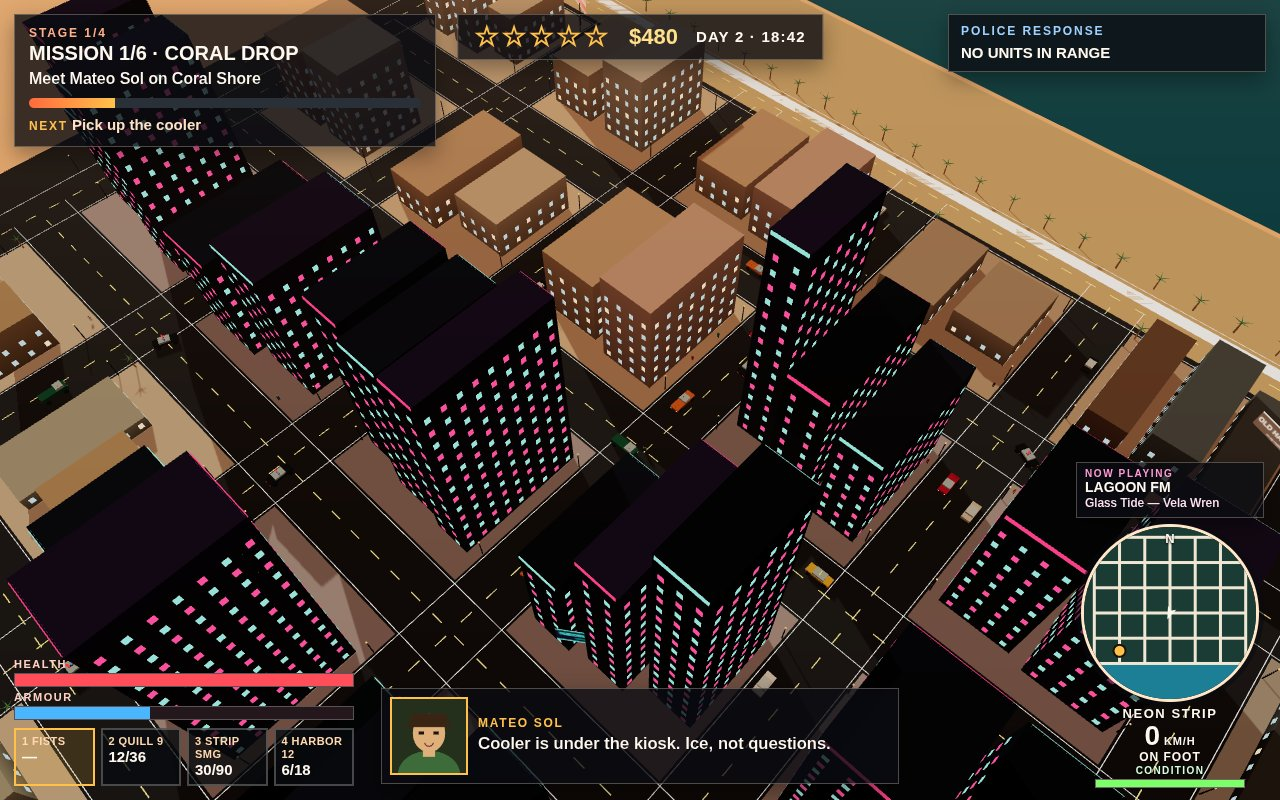
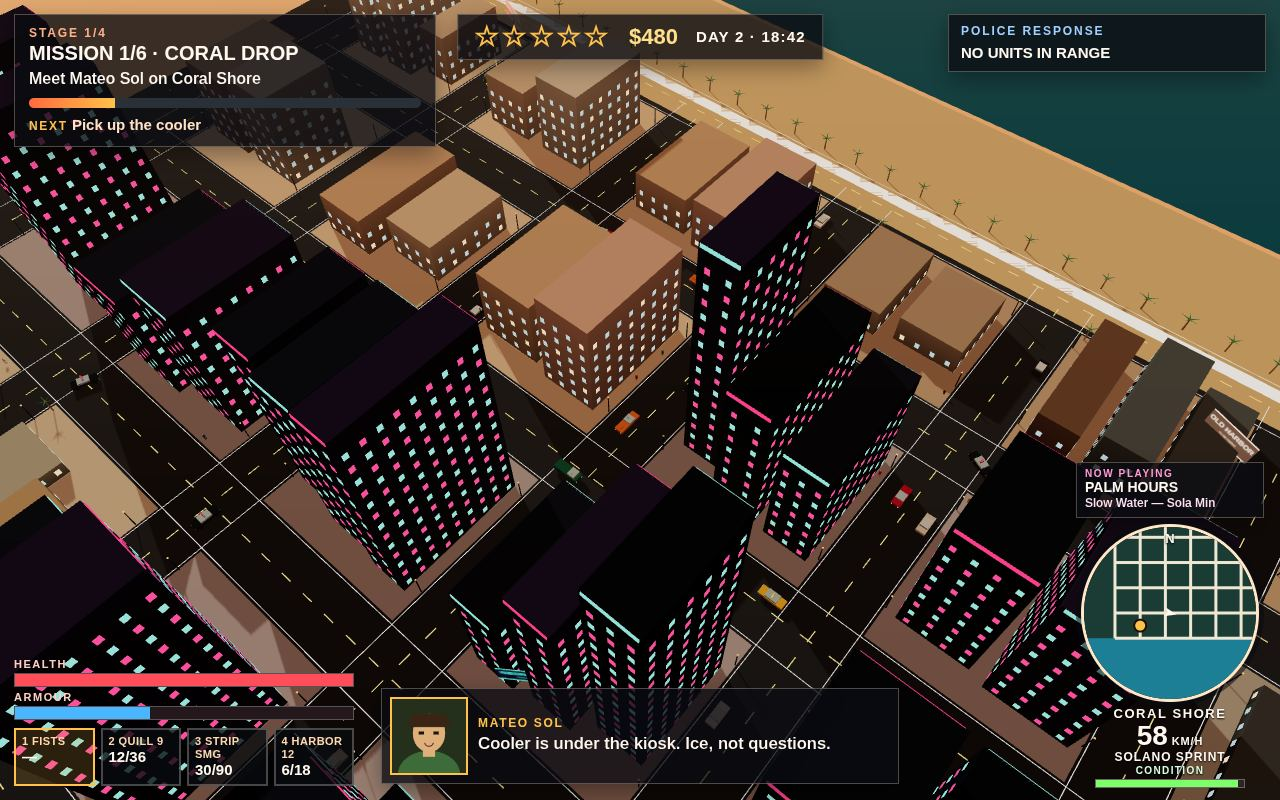
Stage chase, on-foot, city, and title screenshot scenes.

diff --git a/game/src/shots.js b/game/src/shots.js
@@ -1,0 +1,119 @@
+// Frozen screenshot scenes. One staged moment per ?shot= name. No unseeded motion.
+
+import { SHOTS } from './config.js';
+import { setWantedStars } from './wanted.js';
+import { stagePolice } from './police.js';
+import { stageMission } from './missions.js';
+import { say as sayLine } from './dialogue.js';
+import { createVehicle, seatPlayer, syncVehicle } from './vehicles.js';
+
+function poseRig(player, rig, shot, testing) {
+  player.mesh.position.set(shot.x, 0, shot.z);
+  player.mesh.rotation.y = shot.face;
+  rig.yaw = shot.yaw;
+  rig.pitch = shot.pitch;
+  rig.dist = shot.dist;
+  rig.lookY = shot.lookY;
+  rig.frozen = !testing;
+}
+
+function mountCar(world, typeId, x, z, yaw, speed, condition) {
+  const ride = createVehicle(typeId, x, z, yaw);
+  world.scene.add(ride.mesh);
+  world.cars.push(ride);
+  ride.speed = speed;
+  ride.condition = condition;
+  ride.occupied = true;
+  syncVehicle(ride, 0, 0.22);
+  return ride;
+}
+
+function drive(world, typeId, shot, speed, condition) {
+  const ride = mountCar(world, typeId, shot.x, shot.z, shot.face, speed, condition);
+  seatPlayer(ride, world.player);
+  return ride;
+}
+
+function stand(player, combat, slot) {
+  combat.loadout.index = slot;
+  combat.gun.visible = slot > 0;
+  player.armR.rotation.x = slot > 0 ? 1.32 : 0.15;
+  player.armL.rotation.x = 0.35;
+  player.legL.rotation.x = 0.22;
+  player.legR.rotation.x = -0.12;
+}
+
+function placePed(ped, x, z, yaw) {
+  if (!ped) return;
+  ped.x = x;
+  ped.z = z;
+  ped.yaw = yaw;
+  ped.state = 'flee';
+  ped.mesh.position.set(x, 0, z);
+  ped.mesh.rotation.y = yaw;
+}
+
+function stageChase(world, shot) {
+  const { combat, wanted, missions, dialogue, toast, radio } = world;
+  setWantedStars(wanted, 4, shot.x, shot.z);
+  const ride = drive(world, 0, shot, 27, 0.72);
+  for (let i = 0; i < world.cars.length; i++) {
+    const car = world.cars[i];
+    if (car === ride) continue;
+    if (Math.hypot(car.x - shot.x, car.z - shot.z) < 7.5) car.mesh.visible = false;
+  }
+  stagePolice(world.police, 'chase', shot.x, shot.z, shot.face);
+  world.police.officers[0].active = false;
+  world.police.officers[0].mesh.visible = false;
+  combat.vitals.health = 84;
+  combat.vitals.armour = 46;
+  combat.vitals.cash = 2460;
+  combat.loadout.index = 1;
+  stageMission(missions, 'chase');
+  sayLine(dialogue, 'nia', "They're on the causeway. Don't stop for the lights.", 999);
+  toast.text = 'ROADBLOCK ON THE CAUSEWAY';
+  toast.t = 999;
+  radio.index = 0;
+  return ride;
+}
+
+function stageOnFoot(world, shot) {
+  const { player, combat, wanted, missions, dialogue, radio, peds } = world;
+  setWantedStars(wanted, 3, shot.x, shot.z);
+  stand(player, combat, 2);
+  combat.vitals.health = 62;
+  combat.vitals.armour = 18;
+  combat.vitals.cash = 6240;
+  stagePolice(world.police, 'onfoot', shot.x, shot.z, shot.face);
+  stageMission(missions, 'onfoot');
+  sayLine(dialogue, 'jun', 'Back room of Vesper. Forty seconds, then noise.', 999);
+  radio.index = 2;
+  mountCar(world, 4, shot.x - 3.4, shot.z - 13.5, shot.face + 0.15, 0, 0.9);
+  placePed(peds.list[0], shot.x - 2.6, shot.z - 1.6, shot.face + 2.4);
+  placePed(peds.list[1], shot.x + 3.2, shot.z - 5.5, shot.face);
+  return null;
+}
+
+function stageCity(world, shot) {
+  const { combat, missions, dialogue, radio } = world;
+  const ride = drive(world, 0, shot, 16, 0.96);
+  combat.vitals.health = 100;
+  combat.vitals.armour = 40;
+  combat.vitals.cash = 480;
+  stageMission(missions, 'city');
+  sayLine(dialogue, 'mateo', 'Cooler is under the kiosk. Ice, not questions.', 999);
+  radio.index = 4;
+  return ride;
+}
+
+// Returns the driven car when the pose is in a vehicle. Start stays on the title card.
+export function applyShot(name, world) {
+  const shot = SHOTS[name];
+  if (!shot) return null;
+  poseRig(world.player, world.rig, shot, world.testing);
+  let driven = null;
+  if (name === 'chase') driven = stageChase(world, shot);
+  else if (name === 'onfoot') driven = stageOnFoot(world, shot);
+  else if (name === 'city') driven = stageCity(world, shot);
+  return { driven };
+}

diff --git a/game/src/main.js b/game/src/main.js
@@ -15,11 +15,12 @@ import {
 import { createTraffic, updateTraffic } from './traffic.js';
 import { createPeds, dropDriver, updatePeds } from './peds.js';
 import { createWanted, reportCrime, setWantedStars, updateWanted } from './wanted.js';
-import { createPolice, policeRoster, stagePolice, updatePolice } from './police.js';
+import { createPolice, policeRoster, updatePolice } from './police.js';
 import { createCombat, hurtPlayer, updateCombat } from './combat.js';
 import { createDialogue, say as sayLine, updateDialogue } from './dialogue.js';
 import { createHud, updateHud } from './hud.js';
-import { MISSIONS, createMissions, missionView, pulseBeacon, stageMission, updateMissions, exportMission, restoreMission } from './missions.js';
+import { MISSIONS, createMissions, missionView, pulseBeacon, updateMissions, exportMission, restoreMission } from './missions.js';
+import { applyShot } from './shots.js';
 import { WEAPONS } from './weapons.js';
 import { createRadio, cycleRadio, nowPlaying } from './radio.js';
 import { createNeon, updateNeon } from './daynight.js';
@@ -105,52 +106,11 @@ const homePost = new THREE.Mesh(
 homePost.position.set(SAFEHOUSE.x, 1.7, SAFEHOUSE.z);
 scene.add(homePost);
 
-if (shot) {
-  player.mesh.position.set(shot.x, 0, shot.z);
-  player.mesh.rotation.y = shot.face;
-  rig.yaw = shot.yaw;
-  rig.pitch = shot.pitch;
-  rig.dist = shot.dist;
-  rig.lookY = shot.lookY;
-  rig.frozen = !testing;
-} else {
-  player.mesh.position.set(city.spawn.x, 0, city.spawn.z);
-}
-
-if (shotName === 'chase' && shot) {
-  setWantedStars(wanted, 4, shot.x, shot.z);
-  const ride = createVehicle(0, shot.x, shot.z, shot.face);
-  scene.add(ride.mesh);
-  seatPlayer(ride, player);
-  driven = ride;
-  cars.push(ride);
-  ride.speed = 27;
-  ride.condition = 0.72;
-  syncVehicle(ride, 0, 0.2);
-  stagePolice(police, 'chase', shot.x, shot.z, shot.face);
-  combat.vitals.health = 84;
-  combat.vitals.armour = 46;
-  combat.vitals.cash = 2460;
-  combat.loadout.index = 1;
-  stageMission(missions, 'chase');
-  sayLine(dialogue, 'nia', "They're on the causeway. Don't stop for the lights.", 999);
-  toast.text = 'ROADBLOCK ON THE CAUSEWAY';
-  toast.t = 999;
-} else if (shotName === 'onfoot' && shot) {
-  setWantedStars(wanted, 3, shot.x, shot.z);
-  combat.loadout.index = 1;
-  combat.gun.visible = true;
-  player.armR.rotation.x = 1.2;
-  combat.vitals.health = 62;
-  combat.vitals.armour = 18;
-  combat.vitals.cash = 6240;
-  stagePolice(police, 'onfoot', shot.x, shot.z, shot.face);
-  stageMission(missions, 'onfoot');
-  sayLine(dialogue, 'jun', 'Back room of Vesper. Forty seconds, then noise.', 999);
-} else if (shotName === 'city') {
-  stageMission(missions, 'city');
-  sayLine(dialogue, 'mateo', 'Cooler is under the kiosk. Ice, not questions.', 999);
-}
+if (!shot) player.mesh.position.set(city.spawn.x, 0, city.spawn.z);
+const staged = shot ? applyShot(shotName, {
+  scene, player, rig, cars, police, combat, wanted, missions, dialogue, toast, peds, radio, testing,
+}) : null;
+if (staged && staged.driven) driven = staged.driven;
 
 function avoidBody() {
   if (driven) return null;
@@ -503,8 +463,12 @@ if (testing) {
 }
 
 function frameFocus() {
-  if (shot && (shotName === 'city' || (!playing && shotName === 'start'))) {
-    focus.set(GRID_X * SPAN * 0.48, shot.lookY, GRID_Z * SPAN * 0.38);
+  if (shot && shotName === 'city') {
+    focus.set(GRID_X * SPAN * 0.5, shot.lookY, GRID_Z * SPAN * 0.34);
+    return;
+  }
+  if (shot && shotName === 'start') {
+    focus.set(GRID_X * SPAN * 0.46, shot.lookY, GRID_Z * SPAN * 0.33);
     return;
   }
   if (!playing) {
@@ -682,7 +646,7 @@ function tick(now) {
     dialogue,
     radio: track,
     notice: toast.t > 0 ? toast.text : '',
-    crosshair: live && !driven && combat.vitals.state === 'ok',
+    crosshair: shotName === 'onfoot' || (live && !driven && combat.vitals.state === 'ok'),
   });
   if (menus.mode === 'map') {
     drawWorldMap(menus.mapCanvas, {

diff --git a/game/src/police.js b/game/src/police.js
@@ -48,7 +48,8 @@ function helicopterMesh() {
   tail.position.set(0, 0.2, 2.4);
   const fin = new THREE.Mesh(new THREE.BoxGeometry(0.08, 0.7, 0.46), bodyMat);
   fin.position.set(0, 0.55, 3.3);
-  const rotor = new THREE.Mesh(new THREE.BoxGeometry(6.4, 0.06, 0.2), BLACK);
+  const rotor = new THREE.Mesh(new THREE.BoxGeometry(7.2, 0.08, 0.46), BLACK);
+  rotor.add(new THREE.Mesh(new THREE.BoxGeometry(0.46, 0.08, 7.2), BLACK));
   rotor.position.y = 0.55;
   const tailRotor = new THREE.Mesh(new THREE.BoxGeometry(0.08, 0.95, 0.12), BLACK);
   tailRotor.position.set(0.22, 0.55, 3.3);
@@ -356,11 +357,16 @@ export function stagePolice(police, shot, x, z, yaw) {
     cop.yaw = yaw + Math.PI;
     cop.mesh.position.set(cop.x, 0, cop.z);
     cop.mesh.rotation.set(0, cop.yaw, 0);
-    police.hx = x + 1.2;
-    police.hz = z - 28;
-    police.hy = 9.5;
+    yawForward(yaw, _fwd);
+    const rx = -_fwd.z;
+    const rz = _fwd.x;
+    police.hx = x + _fwd.x * 16;
+    police.hz = z + _fwd.z * 16;
+    police.hy = 5.6;
     police.heli.mesh.visible = true;
+    police.heli.mesh.scale.setScalar(1.15);
     police.heli.mesh.position.set(police.hx, police.hy, police.hz);
+    police.heli.mesh.rotation.y = yaw + 1.25;
     police.heli.rotor.rotation.y = 0.7;
     police.heli.beam.visible = true;
     police.heli.spot.intensity = 8;
@@ -368,22 +374,35 @@ export function stagePolice(police, shot, x, z, yaw) {
     police.bust = 0.4;
   } else if (shot === 'onfoot') {
     yawForward(yaw, _fwd);
-    placeUnit(police.units[0], x - _fwd.x * 10, z - _fwd.z * 10, yaw, 'chase', time);
-    for (let i = 1; i < police.units.length; i++) police.units[i].mesh.visible = false;
+    const rx = -_fwd.z;
+    const rz = _fwd.x;
+    placeUnit(police.units[0], x + _fwd.x * 9.5 + rx * 3.4, z + _fwd.z * 9.5 + rz * 3.4, yaw + 3.02, 'chase', time);
+    placeUnit(police.units[1], x - _fwd.x * 4.5 + rx * 5.2, z - _fwd.z * 4.5 + rz * 5.2, yaw + 0.55, 'ram', time);
+    for (let i = 2; i < police.units.length; i++) police.units[i].mesh.visible = false;
     const cop = police.officers[0];
     cop.active = true;
     cop.mesh.visible = true;
-    cop.x = x + _fwd.x * 7;
-    cop.z = z + _fwd.z * 7;
+    cop.x = x + _fwd.x * 6.4 - rx * 1.15;
+    cop.z = z + _fwd.z * 6.4 - rz * 1.15;
     cop.yaw = yaw + Math.PI;
     cop.mesh.position.set(cop.x, 0, cop.z);
     cop.mesh.rotation.set(0, cop.yaw, 0);
+    const cop2 = police.officers[1];
+    cop2.active = true;
+    cop2.mesh.visible = true;
+    cop2.x = x + _fwd.x * 12 + rx * 2.2;
+    cop2.z = z + _fwd.z * 12 + rz * 2.2;
+    cop2.yaw = yaw + Math.PI * 0.9;
+    cop2.mesh.position.set(cop2.x, 0, cop2.z);
+    cop2.mesh.rotation.set(0, cop2.yaw, 0);
     police.heli.mesh.visible = true;
-    police.heli.mesh.position.set(x + 4, 16, z - 6);
+    police.heli.mesh.scale.setScalar(1.35);
+    police.heli.mesh.position.set(x + rx * 8 + _fwd.x * 18, 10, z + rz * 8 + _fwd.z * 18);
+    police.heli.mesh.rotation.y = yaw + 0.85;
     police.heli.rotor.rotation.y = 0.4;
     police.heli.beam.visible = true;
-    police.heli.spot.intensity = 6;
-    police.heli.target.position.set(x, 1, z);
+    police.heli.spot.intensity = 7;
+    police.heli.target.position.set(cop.x, 1, cop.z);
   }
 }
 

diff --git a/game/src/vehicles.js b/game/src/vehicles.js
@@ -13,7 +13,7 @@ export const CAR_TYPES = [
 ];
 
 const BOX = new THREE.BoxGeometry(1, 1, 1);
-const WHEEL_GEO = new THREE.CylinderGeometry(0.42, 0.42, 0.3, 8);
+const WHEEL_GEO = new THREE.CylinderGeometry(0.33, 0.33, 0.22, 8);
 WHEEL_GEO.rotateZ(Math.PI / 2);
 const HEAD_GEO = new THREE.SphereGeometry(0.12, 6, 5);
 const GLASS = new THREE.MeshLambertMaterial({ color: 0xb7d4e2 });
@@ -88,12 +88,12 @@ function buildCar(type) {
   group.add(box(TAIL, -W * 0.32, bodyY * 0.9, tail + 0.02, 0.3, 0.14, 0.06));
   group.add(box(TAIL, W * 0.32, bodyY * 0.9, tail + 0.02, 0.3, 0.14, 0.06));
   const wheels = [];
-  const wz = L * 0.34;
-  const wx = W * 0.5 + 0.02;
+  const wz = L * 0.32;
+  const wx = W * 0.36;
   const spots = [[-wx, -wz], [wx, -wz], [-wx, wz], [wx, wz]];
   for (let i = 0; i < spots.length; i++) {
     const pivot = new THREE.Group();
-    pivot.position.set(spots[i][0], 0.42, spots[i][1]);
+    pivot.position.set(spots[i][0], 0.33, spots[i][1]);
     const wheel = new THREE.Mesh(WHEEL_GEO, RUBBER);
     pivot.add(wheel);
     group.add(pivot);

diff --git a/game/src/config.js b/game/src/config.js
@@ -27,10 +27,10 @@ export const CAM = {
 
 // Frozen poses. lookY is the camera's look height above the ground point.
 export const SHOTS = {
-  chase: { x: 132, z: 66, face: 0.2, yaw: 0.45, pitch: 0.34, dist: 13, lookY: 1.3 },
-  onfoot: { x: 176, z: 110, face: 1.15, yaw: 1.4, pitch: 0.2, dist: 6.2, lookY: 1.4 },
-  city: { x: 132, z: 88, face: 0.4, yaw: 0.75, pitch: 0.98, dist: 155, lookY: 6 },
-  start: { x: 154, z: 72, face: 0, yaw: 0.5, pitch: 0.7, dist: 200, lookY: 10 },
+  chase: { x: 132, z: 66, face: 0.12, yaw: 0.36, pitch: 0.3, dist: 11.6, lookY: 1.42 },
+  onfoot: { x: 176, z: 108, face: 0.05, yaw: 0.22, pitch: 0.2, dist: 6.8, lookY: 1.48 },
+  city: { x: 96, z: 44, face: -1.35, yaw: 0.7, pitch: 0.96, dist: 150, lookY: 8 },
+  start: { x: 154, z: 72, face: 0, yaw: 0.48, pitch: 0.64, dist: 176, lookY: 12 },
 };
 
 export function blockBounds(ix, iz) {

diff --git a/NOTES.md b/NOTES.md
@@ -83,3 +83,15 @@ Driveable traffic. `vehicles.js` builds five cars (Solano Sprint, Harbor Cab, Do
 `daynight.js` plus `updateSkyHour` in `sky.js` — 17:00–19:30 stays the existing sunset (chase is 18:42). Later hours go blue and `updateNeon` lifts windows, parapet bands, and lamps. `fx.js` adds sparks, smoke, dust, and muzzle points. Landing, guns, and crashes shake the camera without changing its look direction. Speed adds a little FOV and camera distance.
 
 `?test=1` reports `drive-test ok` with no page exceptions. `screenshots/4-start.jpg` is the night title (1280×800, under 256 KiB). Cover `1-chase.jpg` was not replaced. A fresh chase render still shows sunset, four stars, cruisers, KESTREL-1, and the full HUD.
+
+## Session 6 — screenshot scenes
+
+`shots.js` — `applyShot` freezes `?shot=chase|onfoot|city|start&seed=1`. Chase is The Tide Job in a Solano Sprint (4 stars, three cruisers, KESTREL-1, Nia on the radio). On foot is Vesper Take on the Neon Strip with the crosshair, Strip SMG, two officers, and a cruiser. City is Coral Drop in the Sprint on Coral Shore under the aerial. Start stays the night title card.
+
+Wheels sit inside the body. The helicopter rotor is a cross so it reads against the sky. `shots.json` is `1-chase.jpg`, `2-onfoot.jpg`, `3-city.jpg`, `4-start.jpg`. All four JPEGs are 1280×800 and under 256 KiB. Cover shows the causeway chase, the searchlight, and the full HUD.
+
+## Next
+
+1. If the left cruiser still clips the cover edge, nudge `stagePolice` chase unit 0 a little toward the lane.
+2. Keep each source file one job. The judge only sees file names and the first declarations.
+3. Cover stays `1-chase.jpg`. Do not put the menu on the chase shot.
